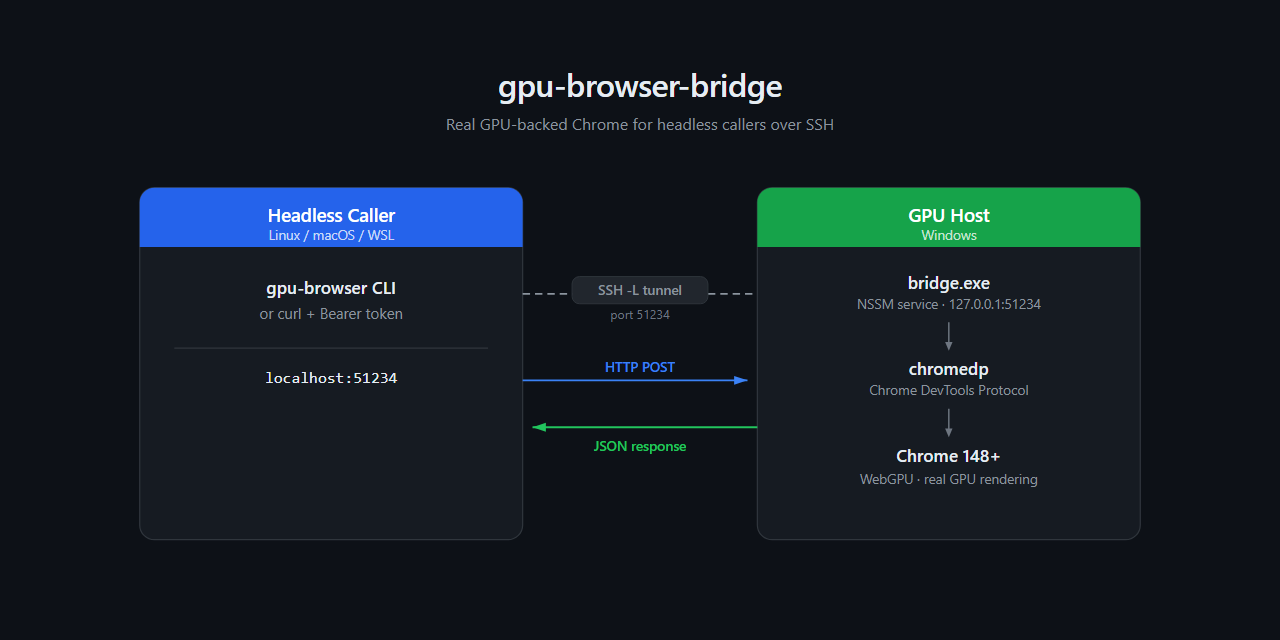
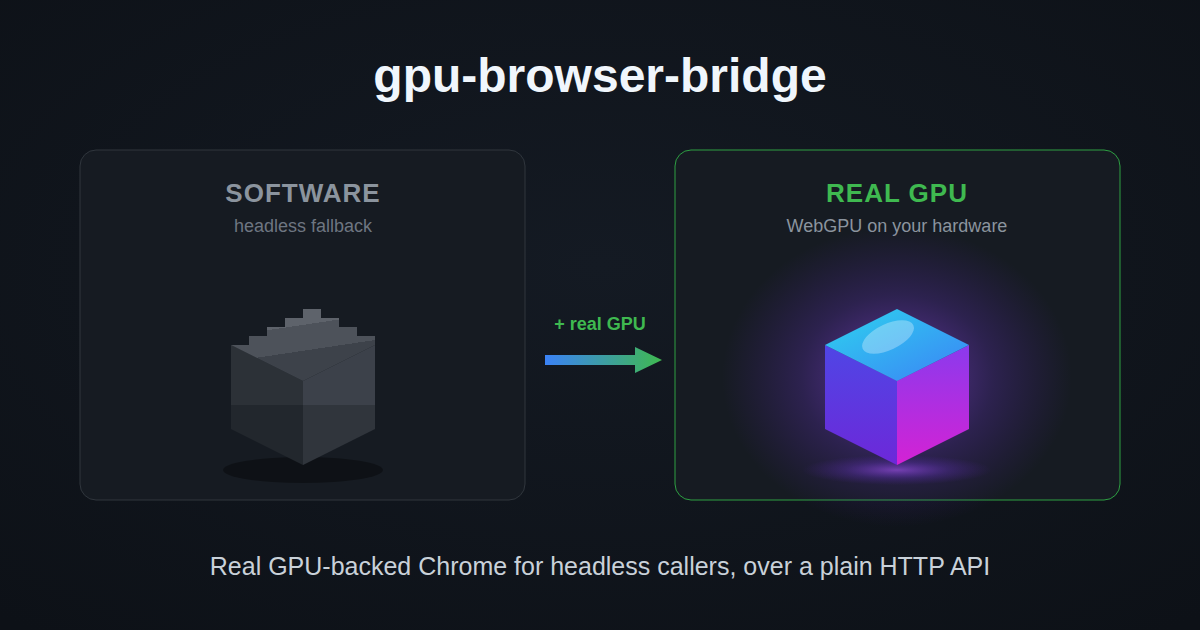
docs: redesign social preview as 1200x630 before/after render
Replace the 1280x640 architecture-diagram social card with a dedicated
before/after design at the OpenGraph-recommended 1200x630: a dull, banded,
aliased software-rendered cube vs a vivid GPU-rendered one. Reads at thumbnail
size where the old diagram's small labels did not.

Add social-preview.svg as the committed source (rendered to PNG via headless
Chromium) and social-preview.md documenting the concept and regen command.

diff --git a/docs/social-preview.md b/docs/social-preview.md
@@ -1,0 +1,38 @@
+# Social preview image
+
+GitHub's repo social preview (Settings -> General -> Social preview). Recommended dimensions are **1200x630px** (the OpenGraph standard most platforms expect).
+
+## Concept
+
+A social card gets a ~1-second glance at thumbnail size, so it sells the *idea*, not the plumbing. This one is a before/after: a dull, banded, aliased software-rendered cube (the SwiftShader fallback headless callers normally get) next to a vivid, lit, glowing GPU-rendered cube (what the bridge gives you). The payoff is legible without reading a word.
+
+This is intentionally a different image from the README architecture diagram (`architecture-dark.svg` / `architecture-light.svg`). That diagram is the *explainer* for someone already reading the README; the social card is the *hook*. They no longer share a source.
+
+## Files
+
+- `social-preview.svg` - the source. Edit this, never the PNG. Two isometric cubes on a subtly vignetted background. The left uses posterized (hard-stop) gray gradients and a pixel-stepped top face (the stair-steps are baked into the polygon, not overlaid) to read as aliased/software; the right uses smooth vivid gradients, a radial glow halo, floor bloom, and a specular highlight. Text is deliberately large and sparse so it survives at thumbnail size in a feed.
+- `social-preview.png` - the rendered 1200x630 export uploaded to GitHub.
+
+## Regenerating the PNG
+
+Rendered with headless Chromium. Chromium adds an 8px body margin to a standalone SVG, which would shift and crop the output, so the SVG is wrapped in a zero-margin HTML page to get a pixel-exact frame.
+
+Run from the `docs/` directory:
+
+```bash
+cat > social-render.html <<'EOF'
+<!doctype html><html><head><meta charset="utf-8">
+<style>html,body{margin:0;padding:0;background:#0d1117}</style></head>
+<body><img src="social-preview.svg" width="1200" height="630" style="display:block"></body></html>
+EOF
+
+chromium --headless --no-sandbox --disable-gpu --force-device-scale-factor=1 \
+  --hide-scrollbars --window-size=1200,630 --default-background-color=00000000 \
+  --screenshot=social-preview.png "file://$PWD/social-render.html"
+
+rm -f social-render.html
+```
+
+Verify with `file social-preview.png` (expect `PNG image data, 1200 x 630`).
+
+`--force-device-scale-factor=1` keeps it at exactly 1200x630; bump it to `2` if you ever want a 2x retina export (the window-size stays 1200x630, the output doubles).